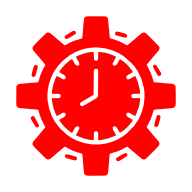
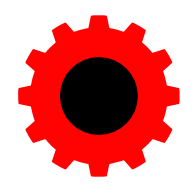
Add files via upload

diff --git a/index.html b/index.html
@@ -1,1 +1,1 @@
-<!doctype html><html lang="pt-BR"><head><meta charset="utf-8"><meta name="viewport" content="width=device-width,initial-scale=1"><meta name="theme-color" content="#FF0080"><meta name="description" content="Impulso: produtividade e maestria offline"><link rel="manifest" href="manifest.json"><link rel="icon" type="image/png" sizes="192x192" href="icon-192.png"><link rel="apple-touch-icon" href="icon-192.png"><link rel="stylesheet" href="styles.css"><title>Impulso — Motor de Produtividade Pessoal</title><script src="app.js" defer></script></head><body><div id="splash" aria-hidden="true"><div class="splash-icon" role="img" aria-label="Engrenagem girando em torno de um relógio"><img class="splash-gear" src="splash-gear.svg" alt=""><img class="splash-clock" src="splash-clock.svg" alt=""></div><strong>IMPULSO</strong><small>Motor de Produtividade Pessoal</small></div><header class="top"><button id="menuToggle" class="menu-toggle" type="button" aria-label="Abrir menu" aria-controls="menuDrawer" aria-expanded="false"><span></span><span></span><span></span></button><a class="brand" href="https://magpe-stack.github.io/Impulso/#inicio" aria-label="Impulso — Ir para o início"><img class="brand-logo" src="logo.svg" alt="" width="40" height="40"><span>Impulso</span></a></header><div id="menuBackdrop" class="menu-backdrop" hidden></div><aside id="menuDrawer" class="menu-drawer" aria-label="Menu principal" aria-hidden="true" inert><div class="menu-heading"><strong>Menu Impulso</strong><button id="menuClose" type="button" aria-label="Fechar menu">✕</button></div><nav id="nav" aria-label="Navegação principal"></nav><div class="menu-section"><strong>Ferramentas</strong><button id="menuNew" data-action="new">＋ Novo Projeto</button><button id="menuPoint" data-action="point">▶ Registrar Ponto</button><button id="menuManual" data-action="manual">✎ Entrada Manual</button><button data-action="backup">↓ Backup</button><button data-action="import">↑ Importar / Restaurar</button><button data-action="print">▣ Imprimir</button><button id="theme" type="button">◐ Alternar tema</button><button id="fullscreen" type="button">⛶ Tela cheia</button></div><div class="menu-section"><strong>Informações</strong><a href="https://magpe-stack.github.io/Impulso/" target="_blank" rel="noopener">Impulso PWA</a><a href="https://github.com/magpe-stack/Impulso" target="_blank" rel="noopener">GitHub</a><a href="https://github.com/magpe-stack/Impulso/blob/main/README.md" target="_blank" rel="noopener">Ajuda / Manual</a><button id="about" type="button">Sobre</button></div></aside><div class="shell"><main id="main" tabindex="-1"></main></div><dialog id="modal" aria-label="Caixa de diálogo"></dialog><input id="importFile" type="file" accept="application/json,.json" hidden><div id="toast" role="status" aria-live="polite"></div></body></html>
+<!doctype html><html lang="pt-BR"><head><meta charset="utf-8"><meta name="viewport" content="width=device-width,initial-scale=1"><meta name="theme-color" content="#FF0080"><meta name="description" content="Impulso: produtividade e maestria offline"><link rel="manifest" href="manifest.json"><link rel="icon" type="image/png" sizes="192x192" href="icon-192.png"><link rel="apple-touch-icon" href="icon-192.png"><link rel="stylesheet" href="styles.css"><title>Impulso — Motor de Produtividade Pessoal</title><script src="app.js" defer></script></head><body><div id="splash" aria-label="Impulso carregando"><div class="splash-icon"><img class="splash-gear" src="logo.png" alt="Engrenagem vermelha do Impulso"></div><strong>IMPULSO</strong><small>Motor de Produtividade Pessoal</small></div><header class="top"><button id="menuToggle" class="menu-toggle" type="button" aria-label="Abrir menu" aria-controls="menuDrawer" aria-expanded="false"><span></span><span></span><span></span></button><a class="brand" href="https://magpe-stack.github.io/Impulso/#inicio" aria-label="Impulso — Ir para o início"><img class="brand-logo" src="logo.svg" alt="" width="40" height="40"><span>Impulso</span></a></header><div id="menuBackdrop" class="menu-backdrop" hidden></div><aside id="menuDrawer" class="menu-drawer" aria-label="Menu principal" aria-hidden="true" inert><div class="menu-heading"><strong>Menu Impulso</strong><button id="menuClose" type="button" aria-label="Fechar menu">✕</button></div><nav id="nav" aria-label="Navegação principal"></nav><div class="menu-section"><strong>Ferramentas</strong><button id="menuNew" data-action="new">＋ Novo Projeto</button><button id="menuPoint" data-action="point">▶ Registrar Ponto</button><button id="menuManual" data-action="manual">✎ Entrada Manual</button><button data-action="backup">↓ Backup</button><button data-action="import">↑ Importar / Restaurar</button><button data-action="print">▣ Imprimir</button><button id="theme" type="button">◐ Alternar tema</button><button id="fullscreen" type="button">⛶ Tela cheia</button></div><div class="menu-section"><strong>Informações</strong><a href="https://magpe-stack.github.io/Impulso/" target="_blank" rel="noopener">Impulso PWA</a><a href="https://github.com/magpe-stack/Impulso" target="_blank" rel="noopener">GitHub</a><a href="https://github.com/magpe-stack/Impulso/blob/main/README.md" target="_blank" rel="noopener">Ajuda / Manual</a><button id="about" type="button">Sobre</button></div></aside><div class="shell"><main id="main" tabindex="-1"></main></div><dialog id="modal" aria-label="Caixa de diálogo"></dialog><input id="importFile" type="file" accept="application/json,.json" hidden><div id="toast" role="status" aria-live="polite"></div></body></html>

diff --git a/app.js b/app.js
@@ -70,5 +70,5 @@ function setMenu(open){menuDrawer.classList.toggle('open',open);menuDrawer.setAt
 menuToggle.addEventListener('click',()=>setMenu(!menuDrawer.classList.contains('open')));menuClose.addEventListener('click',()=>setMenu(false));menuBackdrop.addEventListener('click',()=>setMenu(false));document.addEventListener('keydown',e=>{if(e.key==='Escape'&&menuDrawer.classList.contains('open')){e.preventDefault();setMenu(false)}if(e.key==='Tab'&&menuDrawer.classList.contains('open')){const focusable=[...menuDrawer.querySelectorAll('button:not([disabled]),a[href]')];const first=focusable[0],last=focusable[focusable.length-1];if(e.shiftKey&&document.activeElement===first){e.preventDefault();last.focus()}else if(!e.shiftKey&&document.activeElement===last){e.preventDefault();first.focus()}}});
 document.querySelector('.brand')?.addEventListener('click',e=>{if(location.origin==='https://magpe-stack.github.io'&&location.pathname.replace(/\/$/,'')==='/Impulso'){e.preventDefault();history.replaceState(null,'','/Impulso/#inicio');setMenu(false);page='inicio';render()}});
 document.addEventListener('click',e=>{const el=e.target.closest('[data-action],[data-page],[data-open],[data-rename],[data-delete-project],[data-delete-record],[data-run-habit],[data-habit-control],[data-delete-habit]');if(!el)return;if(menuDrawer.contains(el))setMenu(false);if(el.dataset.action){action(el.dataset.action);return}if(el.dataset.page){page=el.dataset.page;render();return}if(el.dataset.open){state.active=el.dataset.open;save();page='inicio';render();return}if(el.dataset.rename){rename(el.dataset.rename);return}if(el.dataset.deleteProject){if(!ask('Excluir este projeto e TODOS os seus registros, hábitos e progresso? Esta ação não pode ser desfeita.'))return;state.projects=state.projects.filter(p=>p.id!==el.dataset.deleteProject);if(!project())state.active=state.projects[0]?.id||null;save();render();return}if(el.dataset.deleteRecord){delRecord(el.dataset.deleteRecord);return}if(el.dataset.habitControl){habitControl(el.dataset.habitControl,el.dataset.mode);return}if(el.dataset.runHabit){runHabit(el.dataset.runHabit);return}if(el.dataset.deleteHabit){const p=project(),id=el.dataset.deleteHabit;if(!ask('Excluir este hábito? As execuções já registradas permanecerão no histórico e poderão ser excluídas individualmente.'))return;p.habits=p.habits.filter(h=>h.id!==id);save();render()}});
-document.addEventListener('change',e=>{if(e.target.id==='order'){order=e.target.value;render()}});$('#importFile').addEventListener('change',e=>{importBackup(e.target.files[0]);e.target.value=''});$('#about').onclick=()=>{setMenu(false);about()};$('#theme').onclick=()=>{document.body.classList.toggle('dark');localStorage.setItem(THEME,document.body.classList.contains('dark')?'dark':'light')};$('#fullscreen').onclick=()=>{if(document.fullscreenElement)document.exitFullscreen?.();else document.documentElement.requestFullscreen?.().catch(()=>toast('Tela cheia indisponível neste navegador'))};if(localStorage.getItem(THEME)==='dark')document.body.classList.add('dark');modal.addEventListener('click',e=>{if(e.target===modal)close()});render();setTimeout(()=>{$('#splash').classList.add('hide');setTimeout(()=>$('#splash')?.remove(),400)},900);if('serviceWorker'in navigator)window.addEventListener('load',()=>navigator.serviceWorker.register('./sw.js').catch(()=>{}));
+document.addEventListener('change',e=>{if(e.target.id==='order'){order=e.target.value;render()}});$('#importFile').addEventListener('change',e=>{importBackup(e.target.files[0]);e.target.value=''});$('#about').onclick=()=>{setMenu(false);about()};$('#theme').onclick=()=>{document.body.classList.toggle('dark');localStorage.setItem(THEME,document.body.classList.contains('dark')?'dark':'light')};$('#fullscreen').onclick=()=>{if(document.fullscreenElement)document.exitFullscreen?.();else document.documentElement.requestFullscreen?.().catch(()=>toast('Tela cheia indisponível neste navegador'))};if(localStorage.getItem(THEME)==='dark')document.body.classList.add('dark');modal.addEventListener('click',e=>{if(e.target===modal)close()});render();setTimeout(()=>{$('#splash').classList.add('hide');setTimeout(()=>$('#splash')?.remove(),400)},4000);if('serviceWorker'in navigator)window.addEventListener('load',()=>navigator.serviceWorker.register('./sw.js').catch(()=>{}));
 })();

diff --git a/sw.js b/sw.js
@@ -1,1 +1,1 @@
-const CACHE='impulso-v6-logo-splash';const ASSETS=['./','./index.html','./styles.css','./app.js','./manifest.json','./icon-192.png','./icon-512.png','./logo.svg','./logo.png','./splash-gear.svg','./splash-clock.svg'];self.addEventListener('install',e=>{e.waitUntil(caches.open(CACHE).then(c=>c.addAll(ASSETS)).then(()=>self.skipWaiting()))});self.addEventListener('activate',e=>{e.waitUntil(caches.keys().then(keys=>Promise.all(keys.filter(k=>k!==CACHE).map(k=>caches.delete(k)))).then(()=>self.clients.claim()))});self.addEventListener('fetch',e=>{if(e.request.method!=='GET'||new URL(e.request.url).origin!==location.origin)return;e.respondWith(fetch(e.request).then(r=>{if(r.ok){const copy=r.clone();caches.open(CACHE).then(c=>c.put(e.request,copy))}return r}).catch(()=>caches.match(e.request).then(r=>r||caches.match('./index.html'))))});
+const CACHE='impulso-v7-gear-100ms-4s';const ASSETS=['./','./index.html','./styles.css','./app.js','./manifest.json','./icon-192.png','./icon-512.png','./logo.svg','./logo.png'];self.addEventListener('install',e=>{e.waitUntil(caches.open(CACHE).then(c=>c.addAll(ASSETS)).then(()=>self.skipWaiting()))});self.addEventListener('activate',e=>{e.waitUntil(caches.keys().then(keys=>Promise.all(keys.filter(k=>k!==CACHE).map(k=>caches.delete(k)))).then(()=>self.clients.claim()))});self.addEventListener('fetch',e=>{if(e.request.method!=='GET'||new URL(e.request.url).origin!==location.origin)return;e.respondWith(fetch(e.request).then(r=>{if(r.ok){const copy=r.clone();caches.open(CACHE).then(c=>c.put(e.request,copy))}return r}).catch(()=>caches.match(e.request).then(r=>r||caches.match('./index.html'))))});

diff --git a/styles.css b/styles.css
@@ -19,3 +19,11 @@
 #splash small{color:#475569;text-align:center;padding:0 12px}
 @keyframes impulso-gear-spin{to{transform:rotate(360deg)}}
 @media(prefers-reduced-motion:reduce){#splash .splash-gear{animation:none}}
+
+/* Splash v7: anima a camada contêiner (Edge/Chrome/Android) */
+#splash{background:#fff!important;color:#10141d!important}
+#splash .splash-icon{position:relative;display:block;width:min(58vw,260px);height:auto;aspect-ratio:1;transform-origin:center center;animation:impulso-spin-fast 100ms linear infinite!important;will-change:transform}
+#splash .splash-gear{display:block;position:static;width:100%;height:100%;object-fit:contain;animation:none!important;transform:none!important}
+#splash strong{color:#940000}
+@keyframes impulso-spin-fast{from{transform:rotate(0deg)}to{transform:rotate(360deg)}}
+@media(prefers-reduced-motion:reduce){#splash .splash-icon{animation-duration:100ms!important}}
